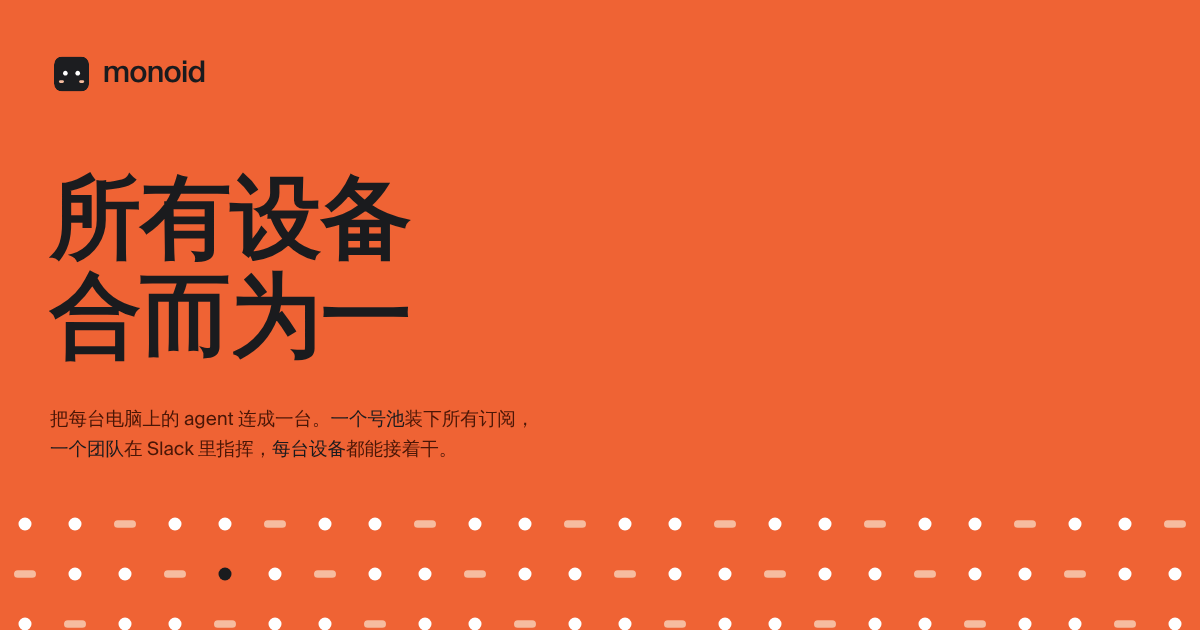
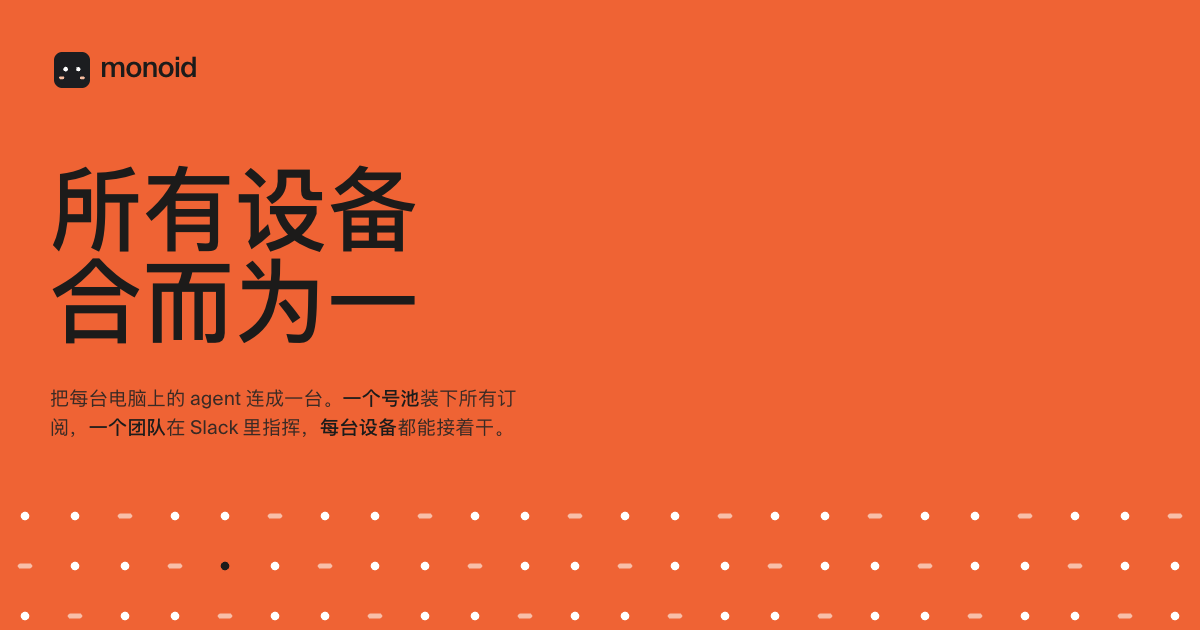
Deploy the new official site to still.fail, youdid.wtf, monoid.build and monoid.zone
website/ (#4565) was built but deployed nowhere: deploy.py's site and site-beta still built the old page from
web/src/site. Now they build website/ for the cloud's own site and its test channel's:

- build.mjs --site <host> --out <dir>: the template is monoid.build's page; still.fail, youdid.wtf and monoid.zone
  are the same page with their name, their web app, their cloud's downloads (the beta apps on a test channel's
  site), share cards and Android code of their own, and the beta apps' icon on a test channel's site. Each site
  also carries the terms, privacy and trademark pages its footer links (web/public).
- deploy.py builds site (still.fail, monoid.build) and site-beta (youdid.wtf, monoid.zone) from it; plan.sh
  deploys site-beta when website/ changes. The stable sites follow with the stable release, as before.
- The old site's stored language (stillfail.site.lang, not monoid.site.lang) is taken as a choice.
- og.mjs takes the share cards again (every site's, from the current hero).

diff --git a/test/website-sites.test.ts b/test/website-sites.test.ts
@@ -1,0 +1,51 @@
+import assert from "node:assert/strict";
+import { test } from "node:test";
+// @ts-expect-error: the site's build is plain JavaScript (website/build.mjs), untyped
+import { SITES, rebrand } from "../website/build.mjs";
+
+// The template is monoid.build's page; each other site is it with its name, its web app and its cloud's downloads.
+const page = [
+  `<title>monoid · One devices</title><a href="https://app.monoid.build">Open monoid</a>`,
+  `<a href="https://app.monoid.build/releases/latest/mac">Mac</a><a href="https://app.monoid.build/releases/latest/android">Android</a>`,
+  `<code>curl -fsSL https://app.monoid.build/<wbr>install.sh</code><button data-copy="curl -fsSL https://app.monoid.build/install.sh">`,
+  `<link rel="canonical" href="https://monoid.build/zh/"><meta property="og:image" content="https://monoid.build/assets/og/en.png"><img src="/assets/android-qr.svg"><span>@monoid</span>`,
+  `<script>K="monoid.site.locale"</script><a href="mailto:lin@acme.dev">lin@acme.dev</a>`,
+].join("");
+
+test("monoid.build's page is the template as it is", () => {
+  assert.equal(rebrand(page, "monoid.build"), page);
+});
+
+test("still.fail's page is named still.fail and opens and downloads still.fail's", () => {
+  assert.equal(rebrand(page, "still.fail"), [
+    `<title>still.fail · One devices</title><a href="https://app.still.fail">Open still.fail</a>`,
+    `<a href="https://app.still.fail/releases/latest/mac">Mac</a><a href="https://app.still.fail/releases/latest/android">Android</a>`,
+    `<code>curl -fsSL https://app.still.fail/<wbr>install.sh</code><button data-copy="curl -fsSL https://app.still.fail/install.sh">`,
+    `<link rel="canonical" href="https://still.fail/zh/"><meta property="og:image" content="https://still.fail/assets/og/still.fail/en.png"><img src="/assets/android-qr-still.fail.svg"><span>@still.fail</span>`,
+    `<script>K="monoid.site.locale"</script><a href="mailto:lin@acme.dev">lin@acme.dev</a>`,
+  ].join(""));
+});
+
+test("a test channel's page opens its own web app and downloads the beta apps from its cloud", () => {
+  const zone = rebrand(page, "monoid.zone");
+  assert.match(zone, /<title>monoid\.zone · /);
+  assert.match(zone, /href="https:\/\/app\.monoid\.zone">Open monoid\.zone</);
+  assert.match(zone, /https:\/\/app\.monoid\.build\/releases\/latest\/mac-beta"/);
+  assert.match(zone, /https:\/\/app\.monoid\.build\/releases\/latest\/android-beta"/);
+  assert.match(zone, /curl -fsSL https:\/\/app\.monoid\.build\/install\.sh/);
+  assert.match(zone, /href="https:\/\/monoid\.zone\/zh\/"/);
+  const wtf = rebrand(page, "youdid.wtf");
+  assert.match(wtf, /href="https:\/\/app\.youdid\.wtf">Open youdid\.wtf</);
+  assert.match(wtf, /https:\/\/app\.still\.fail\/releases\/latest\/mac-beta"/);
+  assert.ok(!/monoid(?!\.site\.locale)/.test(wtf.replace("mailto:lin@acme.dev", "")), "nothing of monoid's left but its stored key");
+});
+
+test("every site has its share cards and Android code", async () => {
+  const { existsSync } = await import("node:fs");
+  for (const site of Object.keys(SITES).filter((s) => s !== "monoid.build")) {
+    assert.ok(existsSync(new URL(`../website/assets/android-qr-${site}.svg`, import.meta.url)), `${site}: Android code`);
+    for (const code of ["en", "zh-CN", "zh-TW", "ja", "ko"]) {
+      assert.ok(existsSync(new URL(`../website/assets/og/${site}/${code}.png`, import.meta.url)), `${site}: share card (${code})`);
+    }
+  }
+});

diff --git a/cloud/deploy.py b/cloud/deploy.py
@@ -506,12 +506,11 @@ def main() -> None:
             print("note: no moon; building without the app (no web app deployed)", flush=True)
         subprocess.run(["pnpm", "run", "build:cloud"], cwd=REPO, env=env, check=True)
         rebrand_static()
-    # (another product's cloud: its site, web/vite.demo.config.ts STILLFAIL_PRODUCT)
-    site_env = {**os.environ, "STILLFAIL_PRODUCT": CLOUD} if CLOUD else None
-    if not args.skip_build and "site" in parts:
-        subprocess.run(["pnpm", "run", "build:site"], cwd=REPO, env=site_env, check=True)
-    if not args.skip_build and "site-beta" in parts:
-        subprocess.run(["pnpm", "run", "build:site-beta"], cwd=REPO, env=site_env, check=True)
+    # The official sites (website/build.mjs SITES): this cloud's (still.fail, monoid.build) into dist/site, its test
+    # channel's (youdid.wtf, monoid.zone) into dist/site-beta.
+    for part, site in (("site", rehost("still.fail")), ("site-beta", beta_zone())):
+        if not args.skip_build and part in parts:
+            subprocess.run(["node", "website/build.mjs", "--site", site, "--out", f"dist/{part}"], cwd=REPO, check=True)
     # Read only for the parts that take them: keys() makes keys.json where there is none, which a deploy of the static
     # sites alone (CI's web-beta, on a machine without the deploy directory's keys) must not do.
     secrets_of = {

diff --git a/website/README.md b/website/README.md
@@ -1,7 +1,11 @@
-# monoid · official site (new)
+# The official site
 
-A new version of the official site, beside the current one (`site/` and `web/src/site/`, which are unchanged). It is a
-static page: HTML, one stylesheet (split by section) and one script, with no framework and no dependencies.
+The official site of still.fail and of monoid, each with its test channel's: still.fail, youdid.wtf, monoid.build,
+monoid.zone (`build.mjs` SITES; `cloud/deploy.py` deploys `site` and `site-beta` from it). It is a static page: HTML,
+one stylesheet (split by section) and one script, with no framework and no dependencies. The template is monoid.build's;
+each other site is the same page with its name, its web app and its cloud's downloads (the beta apps on a test
+channel's), its share cards and Android code (`assets/og/<site>/`, `assets/android-qr-<site>.svg`), and the beta apps' icon
+on a test channel's. The site before it (`site/`, `web/src/site/`) is no longer deployed.
 
 ```
 website/
@@ -12,12 +16,16 @@ website/
   main.js        the language menu, the nav menu, tabs and swipers, reveal on scroll, the hero's field, the teams
                  pictures, the devices scene, FAQ, copy button, downloads for this device
   en/            the old English address: /en/ → /
-  assets/        the mark, icons, the Android QR code (app.monoid.build), Suisse Intl (Latin subsets),
+  assets/        the mark, icons, Suisse Intl (Latin subsets),
                  Inter (OFL: the product pictures' face, as in the app)
                  vendor/: GSAP and ScrollTrigger (loaded on demand)
-                 og/: the share card per language (screenshots of the built hero at 1200 × 630, the bar and buttons
-                 hidden, the wordmark top left; take them again when the hero changes)
-  build.mjs      one page per language into dist/website, everything inlined and trimmed; checks the translations
+                 android-qr.svg, android-qr-<site>.svg: the Android download's QR code (its cloud's
+                 /releases/latest/android, -beta on a test channel's site)
+                 og/: the share card per language, another site's in og/<site>/ (screenshots of the built hero at
+                 1200 × 630, the bar and buttons hidden, the wordmark top left: og.mjs; take them again when the hero
+                 changes)
+  build.mjs      one page per language into dist/website (--site, --out: another site, elsewhere), everything inlined
+                 and trimmed, with the legal pages of web/public; checks the translations
 ```
 
 ## Run and build
@@ -25,6 +33,8 @@ website/
 ```sh
 python3 -m http.server -d website 4173      # or any static server: the folder works unbuilt, in English
 node website/build.mjs                      # → dist/website: a page per language + assets + sitemap.xml, robots.txt, _headers
+node website/build.mjs --site still.fail --out dist/site   # still.fail's (pnpm build:site; youdid.wtf: build:site-beta)
+node website/og.mjs [site…]                 # the share cards again (Chrome, playwright-core)
 node website/build.mjs --check              # translations: missing, extra, stale, markup, glyphs (exit 1 on any)
 ```
 
@@ -42,7 +52,7 @@ served from `web/public`); the build, the head script and the language menu are 
 the page they asked for). The language menu in the footer stores the choice (`localStorage` `monoid.site.locale`) and
 opens that page at the same place (hash kept); from then on the head script, before the first paint, sends the reader
 from any other language's page to the same path under their language. The old site's `?lang=zh|en` and `#zh|#en`
-count as a choice (stored, then dropped from the address), and its stored `monoid.site.lang` becomes
+count as a choice (stored, then dropped from the address), and its stored `stillfail.site.lang` becomes
 `monoid.site.locale`. `/en/` redirects to `/`. Unbuilt, the folder is English only and never redirects.
 
 **The menu** (`.footer-prefs` in the footer's bottom row): a pill button (globe, the language's own name, chevron)

diff --git a/docs/cloud.md b/docs/cloud.md
@@ -174,7 +174,7 @@ still.fail cloud 由以下 Worker 组成（`cloud/wrangler*.jsonc`）：
 | `stillfail-web` | 网页版，纯静态 | `app.still.fail`（Custom Domain） |
 | `stillfail-admin` | 管理后台，纯静态 | `admin.still.fail`（Custom Domain） |
 | `stillfail-preview` | 预览页，纯静态 | `preview.still.fail`（Custom Domain） |
-| `still-fail-site` | 官网，纯静态（`pnpm build:site`，`python3 cloud/deploy.py site`） | `still.fail`（Custom Domain） |
+| `still-fail-site` | 官网，纯静态（`website/`：`pnpm build:site`，`python3 cloud/deploy.py site`） | `still.fail`（Custom Domain） |
 
 同一个域名上，路由优先于 Custom Domain，所以 API 和 relay 的路径到各自的 Worker，其余都是静态站点。域名没变，客户端不用改。
 
